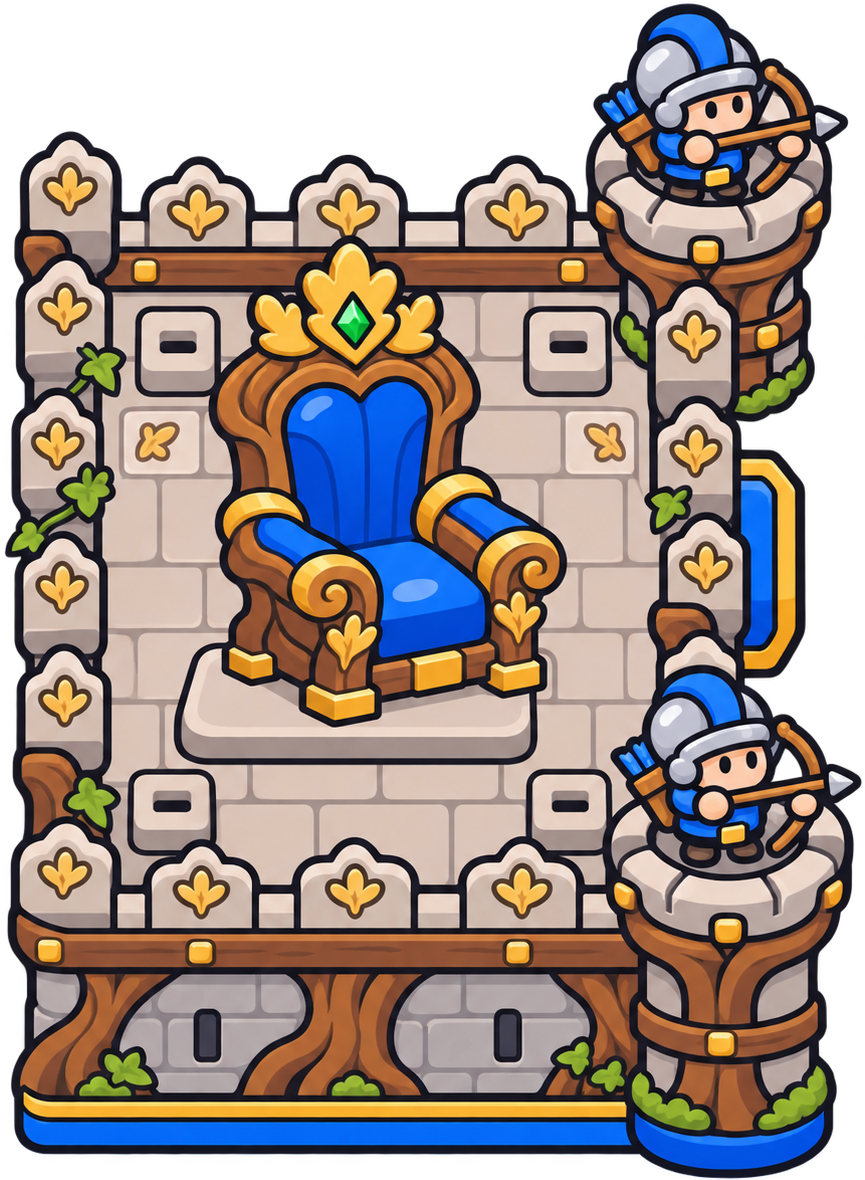
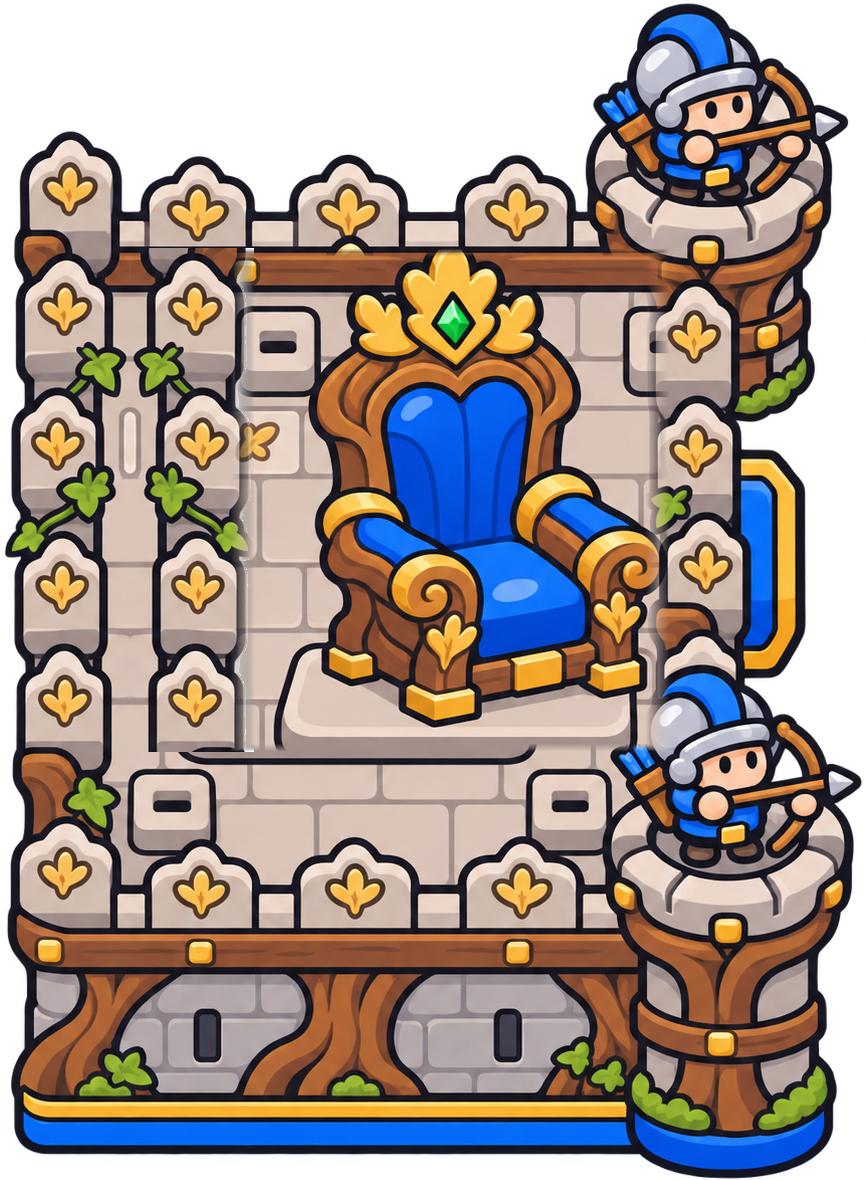
Trono más cerca de las almenas (los castillos originales quedan en arte/)
Claude-Session: https://claude.ai/code/session_01JNP7QCwsBCjLSMGndzwo2W

Changed region(s): [[0.1561, 0.1831, 0.7803, 0.6407]]

diff --git a/docs/index.html b/docs/index.html
@@ -4531,7 +4531,7 @@ let myHero = (() => { try { const h = localStorage.getItem('bg-hero'); return HE
    camino. El tuyo a la izquierda; el del rival, volteado a la derecha y con su color. Cuatro aspectos: piedra, roble, hielo y hierro ---- */
 let ROADW = 1250;                                        // anchura del camino (de hierba a hierba), en unidades del mundo (la fija la escena)
 // ky: aplastado en vertical; oy/y0: la base de la torre de abajo, en la hierba
-const CAS = { k: 2.08, ky: 1.912, x0: 400 - 860 * 2.08, oy: 1162, y0: GROUND + 765, front: 860, seat: [385, 560], arch: [[790, 132], [795, 776]], w: 865, h: 1180 };
+const CAS = { k: 2.08, ky: 1.912, x0: 400 - 860 * 2.08, oy: 1162, y0: GROUND + 765, front: 860, seat: [485, 560], arch: [[790, 132], [795, 776]], w: 865, h: 1180 };
 const CASTLE_FRONT = CAS.x0 + CAS.front * CAS.k;            // frente de las torres
 const THRONE = { x: CAS.x0 + CAS.seat[0] * CAS.k, y: CAS.y0 + (CAS.seat[1] - CAS.oy) * CAS.ky, w: 185 * CAS.k };
 // el terreno de juego va de FIELD_L a FIELD_R: nadie pisa ningún castillo (al aparecer, al ser empujado o al lanzarse)
@@ -4543,7 +4543,7 @@ for (const k in CH) if (CH[k].ranged && k !== 'fraile' && k !== 'pistolero') CH[
 for (const k in CH) if (CH[k].speed) CH[k].speed *= H / 120;
 for (const k of ['aldric', 'lyra', 'gull']) if (CH[k] && CH[k].k) CH[k].k *= 1.6;
 const CASTILLOS = ['piedra', 'roble', 'hielo', 'hierro'];
-const VIEW_M = 150 - THRONE.x;   // la cámara empieza justo detrás del trono: se ve menos castillo
+const VIEW_M = 240 - THRONE.x;   // la cámara empieza justo detrás del trono: se ve menos castillo
 let castleImg = {};
 let CASTLE_SKIN = { blue: null, purple: null };          // aspecto de cada bando (reino.js); sin él, el de piedra
 function castleArt(team, st = '') {

diff --git a/prototipos/batalla/batalla.js b/prototipos/batalla/batalla.js
@@ -18,7 +18,7 @@ let myHero = (() => { try { const h = localStorage.getItem('bg-hero'); return HE
    camino. El tuyo a la izquierda; el del rival, volteado a la derecha y con su color. Cuatro aspectos: piedra, roble, hielo y hierro ---- */
 let ROADW = 1250;                                        // anchura del camino (de hierba a hierba), en unidades del mundo (la fija la escena)
 // ky: aplastado en vertical; oy/y0: la base de la torre de abajo, en la hierba
-const CAS = { k: 2.08, ky: 1.912, x0: 400 - 860 * 2.08, oy: 1162, y0: GROUND + 765, front: 860, seat: [385, 560], arch: [[790, 132], [795, 776]], w: 865, h: 1180 };
+const CAS = { k: 2.08, ky: 1.912, x0: 400 - 860 * 2.08, oy: 1162, y0: GROUND + 765, front: 860, seat: [485, 560], arch: [[790, 132], [795, 776]], w: 865, h: 1180 };
 const CASTLE_FRONT = CAS.x0 + CAS.front * CAS.k;            // frente de las torres
 const THRONE = { x: CAS.x0 + CAS.seat[0] * CAS.k, y: CAS.y0 + (CAS.seat[1] - CAS.oy) * CAS.ky, w: 185 * CAS.k };
 // el terreno de juego va de FIELD_L a FIELD_R: nadie pisa ningún castillo (al aparecer, al ser empujado o al lanzarse)
@@ -30,7 +30,7 @@ for (const k in CH) if (CH[k].ranged && k !== 'fraile' && k !== 'pistolero') CH[
 for (const k in CH) if (CH[k].speed) CH[k].speed *= H / 120;
 for (const k of ['aldric', 'lyra', 'gull']) if (CH[k] && CH[k].k) CH[k].k *= 1.6;
 const CASTILLOS = ['piedra', 'roble', 'hielo', 'hierro'];
-const VIEW_M = 150 - THRONE.x;   // la cámara empieza justo detrás del trono: se ve menos castillo
+const VIEW_M = 240 - THRONE.x;   // la cámara empieza justo detrás del trono: se ve menos castillo
 let castleImg = {};
 let CASTLE_SKIN = { blue: null, purple: null };          // aspecto de cada bando (reino.js); sin él, el de piedra
 function castleArt(team, st = '') {
